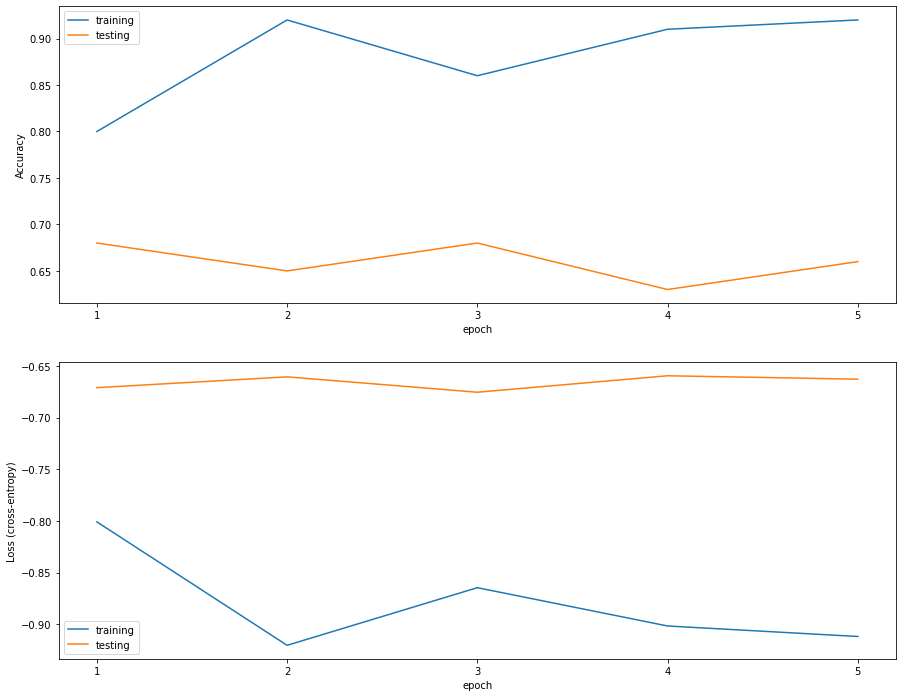
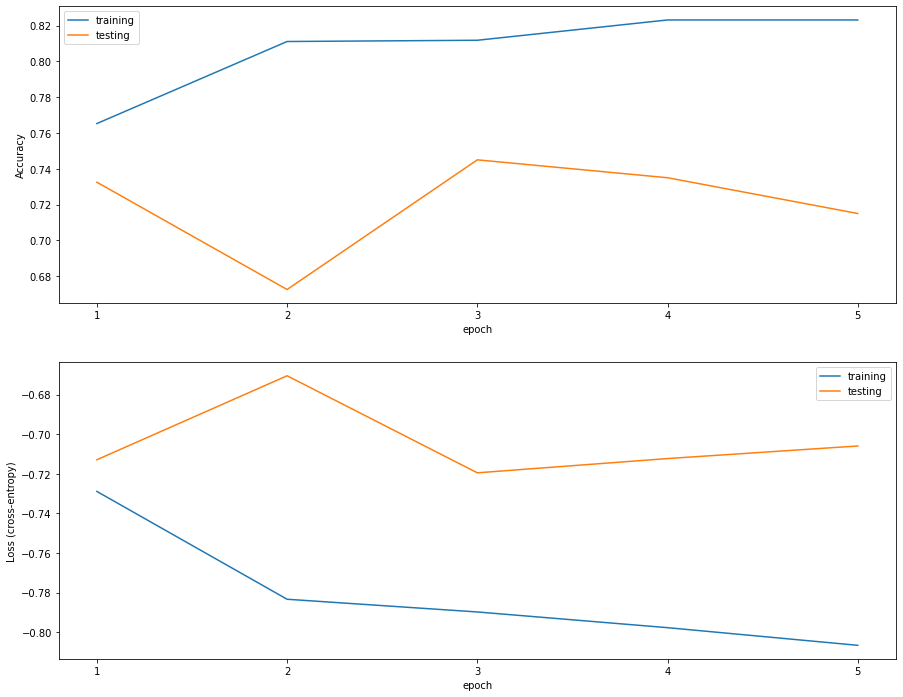
+ first simple run with 1 layer NN

diff --git a/src_code/main_covid_prediction.py b/src_code/main_covid_prediction.py
@@ -75,19 +75,44 @@ def filename_to_abspath(filenames, tag):
 TRAIN_DATA_LUT["img_abs_path"] = filename_to_abspath(filenames=TRAIN_DATA_LUT["[filename]"], tag="train")
 VALID_DATA_LUT["img_abs_path"] = filename_to_abspath(filenames=VALID_DATA_LUT["[filename]"], tag="test")
 
+# report status:
+def report_status(data, tag):
+    tp, tn = np.sum(data["Y"] == 1), np.sum(data["Y"] == 0)
+    print("{}: +:{}, -:{}".format(tag, tp, tn))
+
+report_status(data=TRAIN_DATA_LUT, tag="train")
+report_status(data=VALID_DATA_LUT, tag="valid")
+# %% BALANCE TRAINING DATASET -------------------------------- ####
+"""
+    Since we notice the imbalance in training dataset, let's try random downsampling.
+"""
+train_pos = TRAIN_DATA_LUT[TRAIN_DATA_LUT["Y"] == 1]
+train_neg = TRAIN_DATA_LUT[TRAIN_DATA_LUT["Y"] == 0]
+N_balanced = min(len(train_pos), len(train_neg))
+# shuffle and resample:
+train_pos = train_pos[0:N_balanced]
+train_neg = train_neg[0:N_balanced]
+NEW_TRAIN_DATA_LUT = pd.concat([train_pos, train_neg])
+report_status(data=train_pos, tag="new:train_pos")
+report_status(data=train_neg, tag="new:train_neg")
+report_status(data=NEW_TRAIN_DATA_LUT, tag="new:train")
+TRAIN_DATA_LUT = NEW_TRAIN_DATA_LUT
 
 # %% USER DEFINE: ----- ----- ----- ----- ----- ----- ----- ----- ----- #
 @dataclass
 class PredictorConfiguration:
     MODEL_TAG            : str              = "default"
     OUT_DIR              : str              = ""
+    OUT_DIR_MODELS       : str              = ""
     VERSION              : str              = "default"
     # Settings:
     TOTAL_NUM_EPOCHS     : int              = 5
     LEARNING_RATE        : float            = 0.001
-    BATCH_SIZE           : int              = 10
+    BATCH_SIZE           : int              = 100
     LOSS_FUNC            : nn               = nn.NLLLoss()
     OPTIMIZER            : optim            = None
+    # early stopping:
+    EARLY_STOPPING_DECLINE_CRITERION  : int = 5
 
 SELECTED_TARGET = "1LAYER" # <--- select model !!!
 
@@ -106,7 +131,7 @@ MODEL_DICT = {
         "config":
             PredictorConfiguration(
                 VERSION="v1",
-                OPTIMIZER=optim.Nll,
+                OPTIMIZER=optim.SGD,
             ),
     },
     # "VGG11": {
@@ -145,9 +170,11 @@ SELECTED_NET_CONFIG.OPTIMIZER = SELECTED_NET_CONFIG.OPTIMIZER(
 OUT_DIR = abspath("output")
 MODEL_OUT_DIR = "{}/{}".format(OUT_DIR, SELECTED_TARGET)
 SELECTED_NET_CONFIG.OUT_DIR = "{}/{}".format(MODEL_OUT_DIR, SELECTED_NET_CONFIG.VERSION)
+SELECTED_NET_CONFIG.OUT_DIR_MODELS = "{}/{}".format(SELECTED_NET_CONFIG.OUT_DIR, "models")
 jx_lib.create_folder(DIR=OUT_DIR)
 jx_lib.create_folder(DIR=MODEL_OUT_DIR)
 jx_lib.create_folder(DIR=SELECTED_NET_CONFIG.OUT_DIR)
+jx_lib.create_folder(DIR=SELECTED_NET_CONFIG.OUT_DIR_MODELS)
 
 # define logger:
 def _print(content):
@@ -238,15 +265,18 @@ _print("> Valid Dataset: {}".format(valid_dataloader.dataset._report()))
 
 
 # %% PRINT SAMPLE: ----- ----- ----- ----- ----- ----- ---
-def plot_sample_from_dataloader(dataloader, tag:str, N_COLS = 5):
-    N_ROWS = int(np.ceil(SELECTED_NET_CONFIG.BATCH_SIZE/N_COLS))
+def plot_sample_from_dataloader(dataloader, tag:str, N_COLS = 5, N_MAX=20):
+    N_MAX = min(SELECTED_NET_CONFIG.BATCH_SIZE, N_MAX)
+    N_ROWS = int(np.ceil(N_MAX/N_COLS))
     fig, axes = plt.subplots(
         figsize=(N_COLS * 4, N_ROWS * 4), 
         ncols=N_COLS, nrows=N_ROWS
     )
+    _print("=== Print Sample Data ({}) [n_display:{} / batch_size:{}]".format(
+        tag, N_MAX, SELECTED_NET_CONFIG.BATCH_SIZE))
     # get one batch:
     images, labels = next(iter(dataloader))
-    for i in range(SELECTED_NET_CONFIG.BATCH_SIZE):
+    for i in range(N_MAX):
         ax = axes[int(i/N_COLS), i%N_COLS]
         ax.imshow(images[i][0])
         ax.set_title(
@@ -274,7 +304,9 @@ report = CNN_MODEL_TRAINER.train_and_monitor(
     loss_func=SELECTED_NET_CONFIG.LOSS_FUNC,
     net=SELECTED_NET_MODEL,
     num_epochs=SELECTED_NET_CONFIG.TOTAL_NUM_EPOCHS,
-    max_data_samples=10,
+    model_output_path=SELECTED_NET_CONFIG.OUT_DIR_MODELS,
+    early_stopping_n_epochs_consecutive_decline=SELECTED_NET_CONFIG.EARLY_STOPPING_DECLINE_CRITERION,
+    # max_data_samples=20,
     verbose_level= VerboseLevel.HIGH,
     _print=_print,
 )
@@ -284,4 +316,3 @@ report.output_progress_plot(
     tag=SELECTED_NET_CONFIG.VERSION,
     verbose_level=VerboseLevel.HIGH
 )
-

diff --git a/src_code/jx_pytorch_lib.py b/src_code/jx_pytorch_lib.py
@@ -216,9 +216,9 @@ class CNN_MODEL_TRAINER:
                 if i >= max_data_samples:
                     break
                 if verbose_level >= VerboseLevel.HIGH:
-                    print("\r   >[{}/{}]".format(i, max_data_samples),  end='')
+                    print("\r   >[{}/{}]".format(i+1, max_data_samples),  end='')
             elif verbose_level >= VerboseLevel.HIGH:
-                print("\r   >[{}/{}]".format(i, len(test_dataset)),  end='')
+                print("\r   >[{}/{}]".format(i+1, len(test_dataset)),  end='')
             
             # hardware-acceleration
             if device != None:
@@ -264,9 +264,9 @@ class CNN_MODEL_TRAINER:
                 if i >= max_data_samples:
                     break
                 if verbose_level >= VerboseLevel.HIGH:
-                    print("\r   >[{}/{}]".format(i, max_data_samples), end='')
+                    print("\r   >[{}/{}]".format(i+1, max_data_samples), end='')
             elif verbose_level >= VerboseLevel.HIGH:
-                print("\r   >[{}/{}]".format(i, len(train_dataset)),  end='')
+                print("\r   >[{}/{}]".format(i+1, len(train_dataset)),  end='')
             
             # 1: Clear PyTorch Cache
             net.zero_grad()
@@ -304,13 +304,18 @@ class CNN_MODEL_TRAINER:
         optimizer, 
         loss_func,
         net, 
+        model_output_path,
         num_epochs: int,
+        early_stopping_n_epochs_consecutive_decline: int = 3,
         # history_epoch_resolution: float = 1.0, TODO: mini-batches progress!!!
         max_data_samples: Optional[int] = None,
         verbose_level: VerboseLevel = VerboseLevel.LOW,
         _print=print,
     ):
         report = ProgressReport()
+        n_decline = 0
+        best_test_acc = 0
+        best_net = None
         # Cross entropy
         for epoch in range(num_epochs):
             if verbose_level >= VerboseLevel.LOW:
@@ -350,4 +355,20 @@ class CNN_MODEL_TRAINER:
                 test_time     = test_ellapse,
                 learning_rate = optimizer.param_groups[0]["lr"],
             )))
+
+            if test_acc > best_test_acc:
+                best_net = net
+                best_test_acc = test_acc
+                path = "{}/best_state_dict_{}:{}.pth".format(model_output_path, epoch + 1, num_epochs)
+                t.save(net.state_dict(), path)
+                _print("> Found Best Model State Dict saved @{} \n".format(path))
+            else:
+                n_decline += 1
+            
+            # early stopping:
+            if n_decline > early_stopping_n_epochs_consecutive_decline:
+                break
+
+        # Store the best model:
+        t.save(best_net, "{}/best_model_{}.pth \n".format(model_output_path, epoch + 1))
         return report
